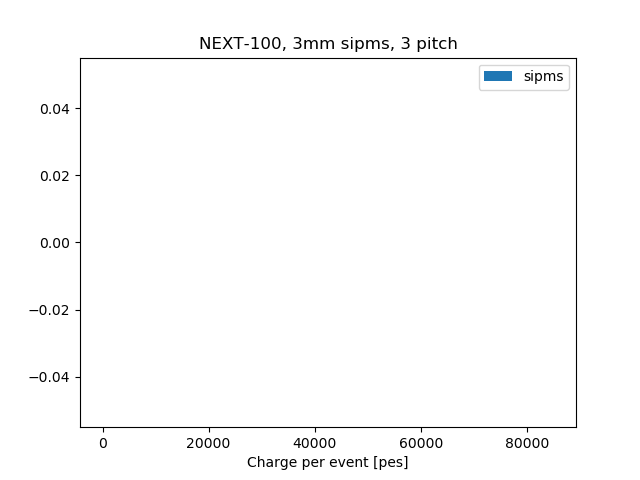
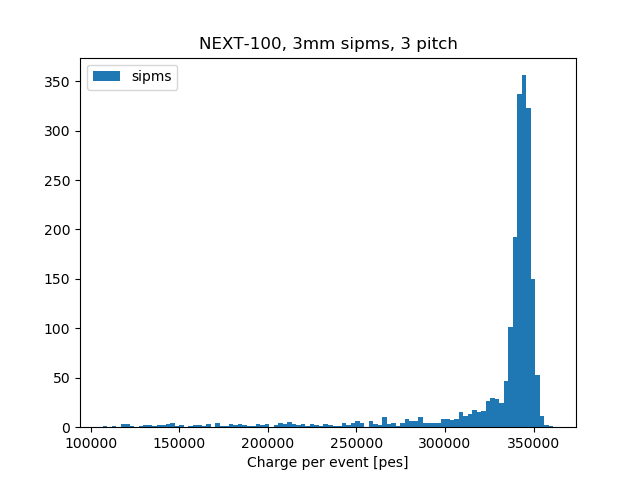
testing kr distr

diff --git a/sipmstudy_distr.py b/sipmstudy_distr.py
@@ -69,8 +69,8 @@ for mc in mcs:
         
         # Sum up all charges per event in pmts
         pmt_response = sns_response_sorted.loc[sns_response_sorted["sensor_id"] < 60]
-        pmt_response_byevent = sipm_response.groupby('event_id')
-        charges = sipm_response_byevent.agg({"charge":"sum"})
+        pmt_response_byevent = pmt_response.groupby('event_id')
+        charges = pmt_response_byevent.agg({"charge":"sum"})
         pmts = pmts.append(charges)
     
 
@@ -86,7 +86,7 @@ else:
     
     
 for mc in mcs:
-    plt.hist(mc['sipms'].charge, label='sipms', range=sipm_range, bins=100)
+    plt.hist(mc['sipms'].charge, label='sipms', bins=100)
     plt.xlabel("Charge per event [pes]")
     plt.title("NEXT-100, 3mm sipms, "+str(mc['pitch'])+' pitch')
     plt.legend()
@@ -94,7 +94,7 @@ for mc in mcs:
     plt.close()
 
 for mc in mcs:
-    plt.hist(mc['sipms'].charge, label='sipms', range=pmt_range, bins=100)
+    plt.hist(mc['sipms'].charge, label='sipms', bins=100)
     plt.xlabel("Charge per event [pes]")
     plt.title("NEXT-100, 3mm sipms, "+str(mc['pitch'])+' pitch')
     plt.legend()
@@ -102,7 +102,7 @@ for mc in mcs:
     plt.close()
     
 for mc in mcs:
-    plt.hist(mc['sipms'].charge, label=mc['dir'], range=sipm_range, bins=100)
+    plt.hist(mc['sipms'].charge, label=mc['dir'], bins=100)
 plt.xlabel("Charge per event in SiPMs [pes]")
 plt.title("NEXT-100, 3mm sipms")
 plt.legend()
@@ -110,7 +110,7 @@ plt.savefig(outdir+'sipm_energy_distr_comp.png')
 plt.close()
 
 for mc in mcs:
-    plt.hist(mc['pmts'].charge, label=mc['dir'], range=pmt_range, bins=100)
+    plt.hist(mc['pmts'].charge, label=mc['dir'], bins=100)
 plt.xlabel("Charge per event in PMTs [pes]")
 plt.title("NEXT-100, 3mm sipms")
 plt.legend()

diff --git a/sipmstudy_eres.py b/sipmstudy_eres.py
@@ -95,7 +95,7 @@ for mc in mcs:
 if event_type == 'kr':
     event_str = '41.5 keV'
 else:
-    event_str = r'$Q_{\beta \beta}$''
+    event_str = r'$Q_{\beta \beta}$'
 
 pitches = [mc['pitch'] for mc in mcs]
 plt.plot(pitches, [mc['sipm_eres'] for mc in mcs], 'o')

diff --git a/sipmstudy_map.py b/sipmstudy_map.py
@@ -14,7 +14,7 @@ from ic_functions import *
 
 
 print("Starting")
-nfiles = 10 # fails if there are not enough events
+nfiles = 99 # fails if there are not enough events
 local = False
 event_type = 'kr'
 

diff --git a/sipmstudy_time.py b/sipmstudy_time.py
@@ -12,7 +12,7 @@ mpl.use('Agg')
 import matplotlib.pyplot as plt
 
 print("Starting")
-nfiles = 1
+nfiles = 10
 local = False
 event_type = 'kr'
 
